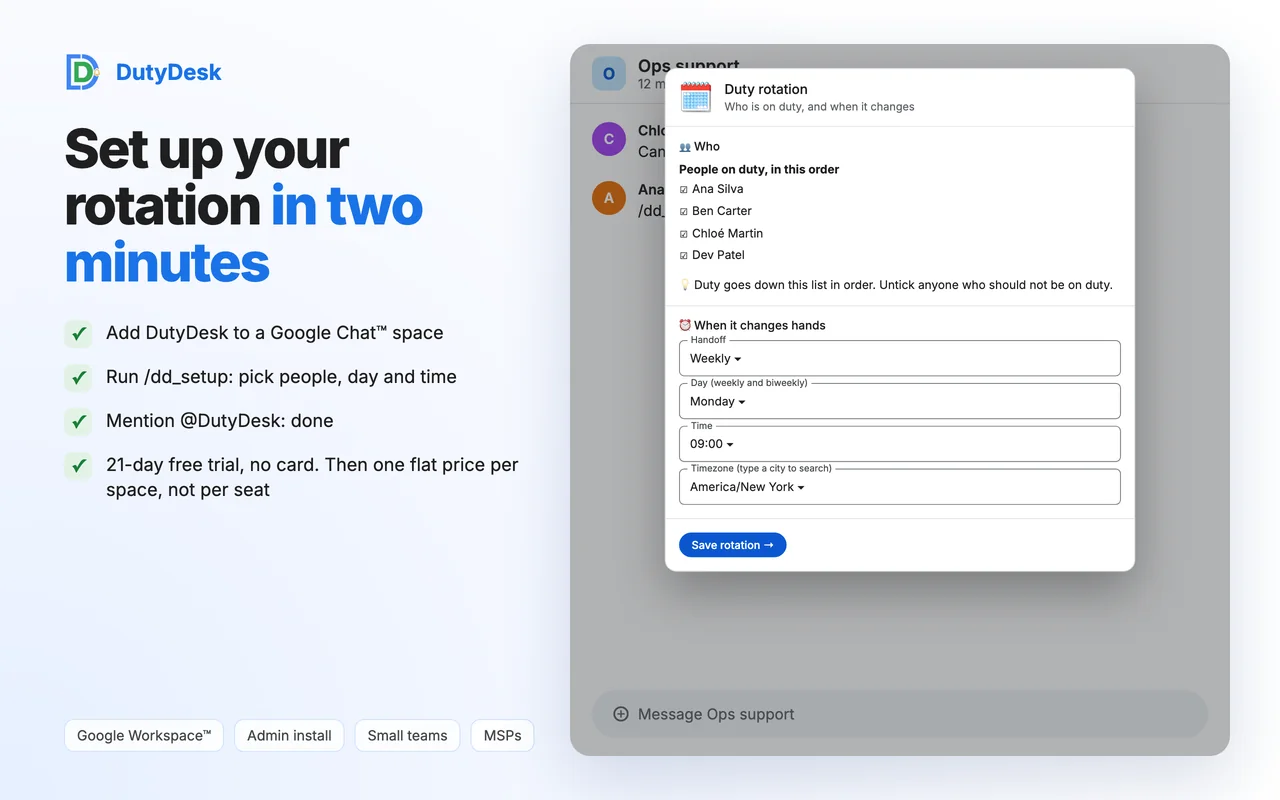
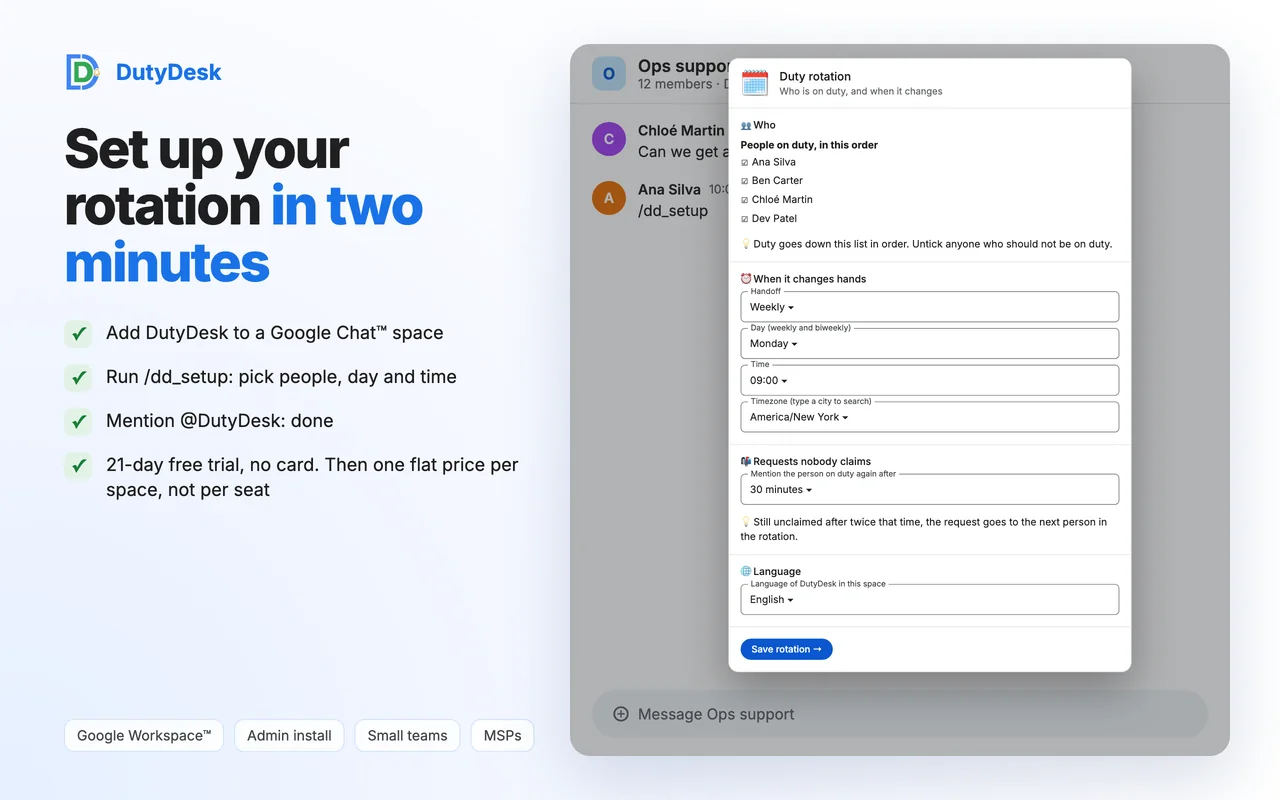
DutyDesk: follow-up, away dates, covers, calendar feed and side panel on the app page, help and privacy
Tour with the new screenshots and the side panel, six features and FAQ
updated; help gets the side panel section; privacy drops
userinfo.profile and describes what the side panel receives. futzslab/futzs-website@ccd34b8f8f4c476fc5e07b1de6ecfb9505051d19

Changed region(s): [[0.5, 0.0625, 0.9062, 0.875], [0.875, 0.125, 0.9062, 0.1562]]

diff --git a/apps/dutydesk/index.html b/apps/dutydesk/index.html
@@ -4,7 +4,7 @@
 <meta charset="utf-8">
 <meta name="viewport" content="width=device-width, initial-scale=1">
 <title>DutyDesk — on-call rotation and request routing for Google Chat</title>
-<meta name="description" content="Mention @DutyDesk in Google Chat and the request reaches whoever is on duty. On-call rotations, shift handoffs, claim and resolve buttons, in 7 languages. 21-day free trial, from $12 per space.">
+<meta name="description" content="Mention @DutyDesk in Google Chat and the request reaches whoever is on duty. On-call rotations, shift handoffs, follow-up of unclaimed requests, away dates, a Google Calendar feed and a side panel in Gmail and Docs, in 7 languages. 21-day free trial, from $12 per space.">
 <link rel="canonical" href="https://futzs.com/apps/dutydesk/">
 <meta name="robots" content="index,follow,max-image-preview:large,max-snippet:-1,max-video-preview:-1">
 <meta name="author" content="Futzs">
@@ -14,14 +14,14 @@
 <meta property="og:site_name" content="Futzs">
 <meta property="og:locale" content="en_US">
 <meta property="og:title" content="DutyDesk — on-call rotation and request routing for Google Chat">
-<meta property="og:description" content="Mention @DutyDesk in Google Chat and the request reaches whoever is on duty. On-call rotations, shift handoffs, claim and resolve buttons, in 7 languages. 21-day free trial, from $12 per space.">
+<meta property="og:description" content="Mention @DutyDesk in Google Chat and the request reaches whoever is on duty. On-call rotations, shift handoffs, follow-up of unclaimed requests, away dates, a Google Calendar feed and a side panel in Gmail and Docs, in 7 languages. 21-day free trial, from $12 per space.">
 <meta property="og:url" content="https://futzs.com/apps/dutydesk/">
 <meta property="og:image" content="https://futzs.com/images/dutydesk-social-1200x630.png">
 <meta property="og:image:alt" content="DutyDesk">
 
 <meta name="twitter:card" content="summary_large_image">
 <meta name="twitter:title" content="DutyDesk — on-call rotation and request routing for Google Chat">
-<meta name="twitter:description" content="Mention @DutyDesk in Google Chat and the request reaches whoever is on duty. On-call rotations, shift handoffs, claim and resolve buttons, in 7 languages. 21-day free trial, from $12 per space.">
+<meta name="twitter:description" content="Mention @DutyDesk in Google Chat and the request reaches whoever is on duty. On-call rotations, shift handoffs, follow-up of unclaimed requests, away dates, a Google Calendar feed and a side panel in Gmail and Docs, in 7 languages. 21-day free trial, from $12 per space.">
 <meta name="twitter:image" content="https://futzs.com/images/dutydesk-social-1200x630.png">
 
 <link rel="icon" href="/images/futzs_favicon.png">
@@ -31,7 +31,7 @@
 <link rel="preconnect" href="https://fonts.gstatic.com" crossorigin>
 <link href="https://fonts.googleapis.com/css2?family=Familjen+Grotesk:wght@400;500;600;700&family=Lora:ital,wght@0,400;0,500;1,400&display=swap" rel="stylesheet">
 <link rel="stylesheet" href="/css/main.css">
-<script type="application/ld+json">{"@context":"https://schema.org","@graph":[{"@type":"BreadcrumbList","itemListElement":[{"@type":"ListItem","position":1,"name":"Home","item":"https://futzs.com/"},{"@type":"ListItem","position":2,"name":"Apps","item":"https://futzs.com/apps/"},{"@type":"ListItem","position":3,"name":"DutyDesk","item":"https://futzs.com/apps/dutydesk/"}]},{"@type":"SoftwareApplication","name":"DutyDesk","url":"https://futzs.com/apps/dutydesk/","description":"Mention @DutyDesk in Google Chat and the request reaches whoever is on duty. On-call rotations, shift handoffs, claim and resolve buttons, in 7 languages. 21-day free trial, from $12 per space.","applicationCategory":"BusinessApplication","applicationSuite":"Google Workspace","operatingSystem":"Web browser, Google Workspace","publisher":{"@id":"https://futzs.com/#organization"},"offers":{"@type":"Offer","price":"0","priceCurrency":"USD"},"screenshot":"https://futzs.com/images/dutydesk/dutydesk-hero.gif","installUrl":"/contact/","softwareHelp":"https://futzs.com/help/dutydesk/"},{"@type":"FAQPage","mainEntity":[{"@type":"Question","name":"Does DutyDesk read our messages?","acceptedAnswer":{"@type":"Answer","text":"No. A Chat app only receives the messages that mention it, the commands sent to it and the buttons pressed on its cards. It acts as an app with the chat.bot permission and never asks for access to your Gmail, Drive, Calendar or other Google data."}},{"@type":"Question","name":"Who sees the request cards?","acceptedAnswer":{"@type":"Answer","text":"Request and handoff cards are posted in the space, so its members see them like any message. Your /dd_duty card, plans and confirmations are private."}},{"@type":"Question","name":"Is there a free trial?","acceptedAnswer":{"@type":"Answer","text":"Yes. Every space gets 21 days with the Team limits, no card needed. DutyDesk reminds the space before the trial ends."}},{"@type":"Question","name":"What happens when the trial ends without a plan?","acceptedAnswer":{"@type":"Answer","text":"Nothing is deleted. The space becomes read only, /dd_duty still answers, but new requests are not routed and handoffs are not posted until the space subscribes."}},{"@type":"Question","name":"Is it an incident or emergency tool?","acceptedAnswer":{"@type":"Answer","text":"DutyDesk routes requests and notifies the person on duty through Google Chat. It is not a monitoring or emergency service, so keep your phone tree for real emergencies."}},{"@type":"Question","name":"Which languages does it speak?","acceptedAnswer":{"@type":"Answer","text":"English, Spanish, French, Portuguese (Brazil), German, Italian and Japanese. A new space starts in the language of whoever adds DutyDesk; /dd_setup changes it."}},{"@type":"Question","name":"How do I cancel?","acceptedAnswer":{"@type":"Answer","text":"/dd_help › See plans › Manage subscription, or the link in Polar's receipt. The plan stays active until the end of the period already paid, and payments are refunded in full within 14 days."}}]}]}</script>
+<script type="application/ld+json">{"@context":"https://schema.org","@graph":[{"@type":"BreadcrumbList","itemListElement":[{"@type":"ListItem","position":1,"name":"Home","item":"https://futzs.com/"},{"@type":"ListItem","position":2,"name":"Apps","item":"https://futzs.com/apps/"},{"@type":"ListItem","position":3,"name":"DutyDesk","item":"https://futzs.com/apps/dutydesk/"}]},{"@type":"SoftwareApplication","name":"DutyDesk","url":"https://futzs.com/apps/dutydesk/","description":"Mention @DutyDesk in Google Chat and the request reaches whoever is on duty. On-call rotations, shift handoffs, follow-up of unclaimed requests, away dates, a Google Calendar feed and a side panel in Gmail and Docs, in 7 languages. 21-day free trial, from $12 per space.","applicationCategory":"BusinessApplication","applicationSuite":"Google Workspace","operatingSystem":"Web browser, Google Workspace","publisher":{"@id":"https://futzs.com/#organization"},"offers":{"@type":"Offer","price":"0","priceCurrency":"USD"},"screenshot":"https://futzs.com/images/dutydesk/dutydesk-hero.gif","installUrl":"/contact/","softwareHelp":"https://futzs.com/help/dutydesk/"},{"@type":"FAQPage","mainEntity":[{"@type":"Question","name":"Does DutyDesk read our messages?","acceptedAnswer":{"@type":"Answer","text":"No. A Chat app only receives the messages that mention it, the commands sent to it and the buttons pressed on its cards. It acts as an app with the chat.bot permission and never asks for access to your Gmail, Drive, Calendar or other Google data. The side panel only learns who opened it."}},{"@type":"Question","name":"Who sees the request cards?","acceptedAnswer":{"@type":"Answer","text":"Request and handoff cards are posted in the space, so its members see them like any message. Your /dd_duty card, plans and confirmations are private."}},{"@type":"Question","name":"What if nobody claims a request?","acceptedAnswer":{"@type":"Answer","text":"After 30 minutes DutyDesk mentions the person on duty again in the thread; after an hour the request goes to the next person in the rotation, once. Change the delay or turn it off in /dd_setup."}},{"@type":"Question","name":"What about holidays?","acceptedAnswer":{"@type":"Answer","text":"Enter the first and last day away from /dd_duty, for yourself or a teammate. DutyDesk passes that person over at every handoff that touches those days. For a few hours or days, Cover a shift sends requests to someone else without changing the rotation."}},{"@type":"Question","name":"Can I see the rotation in Google Calendar?","acceptedAnswer":{"@type":"Answer","text":"Yes: /dd_duty › Add to calendar gives a private link to subscribe to in Google Calendar. Anyone with the link sees the names in the rotation; New link turns the old one off."}},{"@type":"Question","name":"Is there a free trial?","acceptedAnswer":{"@type":"Answer","text":"Yes. Every space gets 21 days with the Team limits, no card needed. DutyDesk reminds the space before the trial ends."}},{"@type":"Question","name":"What happens when the trial ends without a plan?","acceptedAnswer":{"@type":"Answer","text":"Nothing is deleted. The space becomes read only, /dd_duty still answers, but new requests are not routed and handoffs are not posted until the space subscribes."}},{"@type":"Question","name":"Is it an incident or emergency tool?","acceptedAnswer":{"@type":"Answer","text":"DutyDesk routes requests and notifies the person on duty through Google Chat. It is not a monitoring or emergency service, so keep your phone tree for real emergencies."}},{"@type":"Question","name":"Which languages does it speak?","acceptedAnswer":{"@type":"Answer","text":"English, Spanish, French, Portuguese (Brazil), German, Italian and Japanese. A new space starts in the language of whoever adds DutyDesk; /dd_setup changes it."}},{"@type":"Question","name":"How do I cancel?","acceptedAnswer":{"@type":"Answer","text":"/dd_help › See plans › Manage subscription, or the link in Polar's receipt. The plan stays active until the end of the period already paid, and payments are refunded in full within 14 days."}}]}]}</script>
 <script defer src="https://umami.futzs.com/script.js" data-website-id="d2bf791f-8216-49e3-bc20-667f38af4393" data-domains="futzs.com"></script>
 </head>
 <body>
@@ -93,11 +93,11 @@
 
 <section id="features" class="cols-3 anchor grid-six">
   <div><h3>One handle for the whole rotation</h3><p>@DutyDesk stands in for whoever is on duty this week. Nobody checks a spreadsheet, nobody pings the person who was on call last week.</p></div>
-  <div><h3>Every request tracked</h3><p>Each mention becomes a card in its own thread, with Claim, Reassign and Resolve. The space sees who took it and when it was done.</p></div>
-  <div><h3>Handoffs that run themselves</h3><p>Daily, weekly or every two weeks, at the time and in the timezone of your team. DutyDesk announces the new person on duty and carries open requests over.</p></div>
-  <div><h3>Away? Skip or swap</h3><p>One click passes you over once, or trades the next shift with a teammate. The order comes back on its own afterwards.</p></div>
-  <div><h3>Speaks your team&#39;s language</h3><p>English, Español, Français, Português, Deutsch, Italiano and 日本語. Each space picks its own.</p></div>
-  <div><h3>Priced per space, not per seat</h3><p>One flat price per Chat space: $12 a month for up to 5 people, $29 for up to 20. 21 days free first, no card.</p></div>
+  <div><h3>No request left unanswered</h3><p>Each mention becomes a card with Claim, Reassign and Resolve. Nobody claims it? DutyDesk mentions the person on duty again, then hands it to the next person.</p></div>
+  <div><h3>Handoffs that run themselves</h3><p>Daily, weekly or every two weeks, in your team&#39;s timezone. A heads-up the day before, then the handoff with the open requests carried over.</p></div>
+  <div><h3>Holidays and covers, handled</h3><p>Add your days off and you are passed over. Someone covers a few hours or days? Requests go to them, the rotation stays as it is.</p></div>
+  <div><h3>In Gmail, Calendar and Docs too</h3><p>A side panel shows who is on duty and lets you send a request without leaving your inbox. The rotation also comes as a Google Calendar feed.</p></div>
+  <div><h3>Your language, one price per space</h3><p>English, Español, Français, Português, Deutsch, Italiano and 日本語. $12 a month for up to 5 people, $29 for up to 20, after 21 days free.</p></div>
 </section>
 
 <section id="tour" class="anchor showcase">
@@ -118,27 +118,51 @@
 <ul class="showcase-points"><li>Claim with one click</li><li>Reassign to anyone in the rotation</li><li>/dd_requests lists what is still open</li></ul>    </div>
   </div>
   <div class="showcase-row">
+    <img class="showcase-shot" src="/images/dutydesk/6-followup.webp" alt="An unclaimed request mentioned again after 30 minutes, then handed to the next person in the rotation" width="1280" height="800" loading="lazy">
+    <div class="showcase-copy">
+      <span class="kicker">Follow-up</span>
+      <h2>No request left unanswered</h2>
+      <p class="muted">Nobody claimed it? After 30 minutes DutyDesk mentions the person on duty again in the thread. After an hour the request goes to the next person in the rotation, once.</p>
+<ul class="showcase-points"><li>15 min, 30 min, 1 hour or off, per space</li><li>Handed on once, never around the whole team</li><li>Reassigning restarts the clock</li></ul>    </div>
+  </div>
+  <div class="showcase-row flip">
     <img class="showcase-shot" src="/images/dutydesk/3-handoff.webp" alt="A DutyDesk handoff card naming the new person on duty and the open requests carried over" width="1280" height="800" loading="lazy">
     <div class="showcase-copy">
       <span class="kicker">Shift handoff</span>
       <h2>On-call rotations that run themselves</h2>
-      <p class="muted">At each handoff DutyDesk posts who is on duty, who is next, and how many requests are still open. The next person is mentioned, so the duty roster lives where the team talks.</p>
-<ul class="showcase-points"><li>Daily, weekly or every two weeks</li><li>Your team&#39;s timezone</li><li>Open requests carried over</li></ul>    </div>
-  </div>
-  <div class="showcase-row flip">
-    <img class="showcase-shot" src="/images/dutydesk/4-duty.webp" alt="The private /dd_duty card with the next shifts and the Skip and Swap buttons" width="1280" height="800" loading="lazy">
-    <div class="showcase-copy">
-      <span class="kicker">Out of office</span>
-      <h2>Away next week? Skip or swap in one click</h2>
-      <p class="muted">/dd_duty shows you, privately, who is on duty and the next shifts. Skip passes you over once; Swap trades the next shift with a teammate and tells the space.</p>
-<ul class="showcase-points"><li>Only you see your duty card</li><li>The space is told about every swap</li><li>The order goes back to normal by itself</li></ul>    </div>
+      <p class="muted">At each handoff DutyDesk posts who is on duty, who is next, and how many requests are still open. The day before, a heads-up mentions the next person, so there is still time to skip or swap.</p>
+<ul class="showcase-points"><li>Daily, weekly or every two weeks</li><li>Heads-up the day before</li><li>Open requests carried over</li></ul>    </div>
   </div>
   <div class="showcase-row">
-    <img class="showcase-shot" src="/images/dutydesk/5-setup.webp" alt="The DutyDesk setup dialog in Google Chat with people, handoff day, time, timezone and language" width="1280" height="800" loading="lazy">
+    <img class="showcase-shot" src="/images/dutydesk/7-away.webp" alt="A cover announced in the space and the duty card with a teammate away next week" width="1280" height="800" loading="lazy">
+    <div class="showcase-copy">
+      <span class="kicker">Out of office</span>
+      <h2>Holidays and covers, handled</h2>
+      <p class="muted">Enter your days off and DutyDesk passes you over, then puts you back in the order. Someone covers a few hours or days? Requests in that window go to them, and the whole space is told.</p>
+<ul class="showcase-points"><li>Away dates for yourself or a teammate</li><li>Cover a shift without touching the rotation</li><li>Skip or swap one shift in one click</li></ul>    </div>
+  </div>
+  <div class="showcase-row flip">
+    <img class="showcase-shot" src="/images/dutydesk/8-calendar.webp" alt="A heads-up post before the handoff and the private calendar link card" width="1280" height="800" loading="lazy">
+    <div class="showcase-copy">
+      <span class="kicker">Calendar</span>
+      <h2>Know your shift before it starts</h2>
+      <p class="muted">Add the rotation to Google Calendar from a private link: one event per shift for the next 90 days, people away included. The heads-up the day before has Skip and Swap on it.</p>
+<ul class="showcase-points"><li>One event per shift</li><li>Updated as the rotation changes</li><li>New link turns the old one off</li></ul>    </div>
+  </div>
+  <div class="showcase-row">
+    <img class="showcase-shot narrow" src="/images/dutydesk/panel.webp" alt="The DutyDesk side panel with who is on duty, open requests, rotation and New request" loading="lazy">
+    <div class="showcase-copy">
+      <span class="kicker">Side panel</span>
+      <h2>In Gmail, Calendar, Drive and Docs</h2>
+      <p class="muted">Open DutyDesk in the side panel of Gmail, Google Calendar, Drive, Docs, Sheets or Slides: who is on duty in each of your spaces, the open requests, the rotation, and a New request button.</p>
+<ul class="showcase-points"><li>Send a request without leaving your inbox</li><li>Edit the rotation from any Google app</li><li>Only knows who you are; no access to your emails or files</li></ul>    </div>
+  </div>
+  <div class="showcase-row flip">
+    <img class="showcase-shot" src="/images/dutydesk/5-setup.webp" alt="The DutyDesk setup dialog in Google Chat with people, schedule, follow-up and language" width="1280" height="800" loading="lazy">
     <div class="showcase-copy">
       <span class="kicker">Setup</span>
       <h2>Set up your rotation in two minutes</h2>
-      <p class="muted">Run /dd_setup, pick the people in the order they take the duty, choose when it changes hands and the language of the space. That&#39;s it: no admin console, no extra accounts.</p>
+      <p class="muted">Run /dd_setup, pick the people in the order they take the duty, choose when it changes hands, how long a request may wait, and the language of the space. No admin console, no extra accounts.</p>
 <ul class="showcase-points"><li>People come from the space</li><li>7 languages</li><li>21-day free trial with no card</li></ul>    </div>
   </div>
 </section>
@@ -178,7 +202,7 @@
     <div class="step">
       <div class="step-n">02</div>
       <h3>Run /dd_setup</h3>
-      <p>Pick the people, the cadence, the handoff time and the language.</p>
+      <p>Pick the people, the cadence, the handoff time, the follow-up delay and the language.</p>
     </div>
     <div class="step">
       <div class="step-n">03</div>
@@ -211,11 +235,23 @@
 <div class="faq">
   <details class="faq-item">
     <summary>Does DutyDesk read our messages?<span class="faq-sign" aria-hidden="true"></span></summary>
-    <p>No. A Chat app only receives the messages that mention it, the commands sent to it and the buttons pressed on its cards. It acts as an app with the chat.bot permission and never asks for access to your Gmail, Drive, Calendar or other Google data.</p>
+    <p>No. A Chat app only receives the messages that mention it, the commands sent to it and the buttons pressed on its cards. It acts as an app with the chat.bot permission and never asks for access to your Gmail, Drive, Calendar or other Google data. The side panel only learns who opened it.</p>
   </details>
   <details class="faq-item">
     <summary>Who sees the request cards?<span class="faq-sign" aria-hidden="true"></span></summary>
     <p>Request and handoff cards are posted in the space, so its members see them like any message. Your /dd_duty card, plans and confirmations are private.</p>
+  </details>
+  <details class="faq-item">
+    <summary>What if nobody claims a request?<span class="faq-sign" aria-hidden="true"></span></summary>
+    <p>After 30 minutes DutyDesk mentions the person on duty again in the thread; after an hour the request goes to the next person in the rotation, once. Change the delay or turn it off in /dd_setup.</p>
+  </details>
+  <details class="faq-item">
+    <summary>What about holidays?<span class="faq-sign" aria-hidden="true"></span></summary>
+    <p>Enter the first and last day away from /dd_duty, for yourself or a teammate. DutyDesk passes that person over at every handoff that touches those days. For a few hours or days, Cover a shift sends requests to someone else without changing the rotation.</p>
+  </details>
+  <details class="faq-item">
+    <summary>Can I see the rotation in Google Calendar?<span class="faq-sign" aria-hidden="true"></span></summary>
+    <p>Yes: /dd_duty › Add to calendar gives a private link to subscribe to in Google Calendar. Anyone with the link sees the names in the rotation; New link turns the old one off.</p>
   </details>
   <details class="faq-item">
     <summary>Is there a free trial?<span class="faq-sign" aria-hidden="true"></span></summary>

diff --git a/help/dutydesk/index.html b/help/dutydesk/index.html
@@ -82,7 +82,7 @@
   <nav class="docs-nav" data-docs-nav data-spy>
     <div class="docs-group">
       <div class="docs-group-title">DutyDesk</div>
-<a href="#getting-started">Getting started</a><a href="#add">Add DutyDesk to a space</a><a href="#setup">Set up the rotation</a><a href="#requests">Send a request</a><a href="#skip-swap">Skip or swap a shift</a><a href="#away">Away dates and covers</a><a href="#calendar">Rotation in your calendar</a><a href="#commands">Commands</a><a href="#plans">Plans and trial</a><a href="#remove">Remove DutyDesk</a><a href="#troubleshooting">Troubleshooting</a>    </div>
+<a href="#getting-started">Getting started</a><a href="#add">Add DutyDesk to a space</a><a href="#setup">Set up the rotation</a><a href="#requests">Send a request</a><a href="#skip-swap">Skip or swap a shift</a><a href="#away">Away dates and covers</a><a href="#calendar">Rotation in your calendar</a><a href="#side-panel">Side panel in Gmail and Docs</a><a href="#commands">Commands</a><a href="#plans">Plans and trial</a><a href="#remove">Remove DutyDesk</a><a href="#troubleshooting">Troubleshooting</a>    </div>
     <div class="docs-group">
       <div class="docs-group-title">Reference</div>
 <a href="/legal/dutydesk/#privacy">Privacy policy</a><a href="/legal/dutydesk/#terms">Terms &amp; conditions</a>    </div>
@@ -177,6 +177,26 @@ duty: name&rdquo;, for the next 90 days, people away included. Google refreshes 
 every few hours.</p>
 <p>Anyone with the link sees the names in the rotation. <strong>New link</strong> turns the
 old link off.</p>
+<h2 id="side-panel">Side panel in Gmail, Calendar, Drive and Docs</h2>
+<p>DutyDesk also has a side panel in Gmail, Google Calendar, Drive, Docs,
+Sheets and Slides. Click the DutyDesk icon in the bar on the right of the
+screen. The first time, Google asks you to let DutyDesk know who you are
+(your account and language); it gets no access to your emails, events or
+files.</p>
+<p><img alt="The DutyDesk side panel: who is on duty, open requests, rotation and New request" class="shot" src="/images/dutydesk/panel.webp" width="340" /></p>
+<p>For each Chat space with DutyDesk you are a member of:</p>
+<ul>
+<li><strong>Who is on duty</strong> now, until when, and who is next.</li>
+<li><strong>Open requests</strong>: the list, each one opening its thread in Chat.</li>
+<li><strong>Rotation</strong>: the same setup as <code>/dd_setup</code> (people, schedule,
+  follow-up, language). Saving posts the handoff in the space.</li>
+<li><strong>New request</strong>: write it and send. DutyDesk posts it in the space and
+  notifies the person on duty, as an @DutyDesk mention would.</li>
+<li><strong>Open in Chat</strong>.</li>
+</ul>
+<p>The side panel uses the language of your spaces. It comes with the next
+update of DutyDesk on the Google Workspace Marketplace: if you don&rsquo;t see the
+icon yet, it is on its way.</p>
 <h2 id="commands">Commands</h2>
 <table>
 <thead>
@@ -268,7 +288,7 @@ person reads every message.</p>
   <aside class="docs-toc" data-docs-toc data-spy>
     <div class="docs-group-title">On this page</div>
     <a href="#getting-started">Getting started</a>
-<a class="sub" href="#add">Add DutyDesk to a space</a><a class="sub" href="#setup">Set up the rotation</a><a class="sub" href="#requests">Send a request</a><a class="sub" href="#skip-swap">Skip or swap a shift</a><a class="sub" href="#away">Away dates and covers</a><a class="sub" href="#calendar">Rotation in your calendar</a><a class="sub" href="#commands">Commands</a><a class="sub" href="#plans">Plans and trial</a><a class="sub" href="#remove">Remove DutyDesk</a><a class="sub" href="#troubleshooting">Troubleshooting</a>  </aside>
+<a class="sub" href="#add">Add DutyDesk to a space</a><a class="sub" href="#setup">Set up the rotation</a><a class="sub" href="#requests">Send a request</a><a class="sub" href="#skip-swap">Skip or swap a shift</a><a class="sub" href="#away">Away dates and covers</a><a class="sub" href="#calendar">Rotation in your calendar</a><a class="sub" href="#side-panel">Side panel in Gmail, Calendar, Drive and Docs</a><a class="sub" href="#commands">Commands</a><a class="sub" href="#plans">Plans and trial</a><a class="sub" href="#remove">Remove DutyDesk</a><a class="sub" href="#troubleshooting">Troubleshooting</a>  </aside>
 </div>
 </main>
 <footer class="site-footer">

diff --git a/legal/dutydesk/index.html b/legal/dutydesk/index.html
@@ -77,7 +77,7 @@
 <blockquote>
 <ul>
 <li>DutyDesk is a Google Chat app. It acts as itself (an app with the <code>chat.bot</code> permission), never as you: it does not ask for access to your Gmail, Drive, Calendar or any other Google data.</li>
-<li>It only sees the messages that mention @DutyDesk, the commands you send it, and the buttons you press on its cards. It does not read the other messages of the space.</li>
+<li>It only sees the messages that mention @DutyDesk, the commands you send it, the buttons you press on its cards, and what you do in its side panel. It does not read the other messages of the space, nor your emails, events or files.</li>
 <li>What we store, per Chat space: the space name, the rotation (people, order, schedule, timezone), who was on duty when, and for each request the first 200 characters of its text, who asked, who it was assigned to and its status.</li>
 <li>We do not sell your data or share it, except with Polar (polar.sh), which processes payments and receives the buyer&rsquo;s e-mail address for that purpose, and PostHog, which receives product usage events about a space under a random identifier (never message text, names or e-mail addresses).</li>
 <li>The app’s use and transfer of information received from Google APIs adheres to <a href="https://developers.google.com/terms/api-services-user-data-policy#additional_requirements_for_specific_api_scopes">Google API Services User Data Policy</a>, including the Limited Use requirements.</li>
@@ -128,6 +128,16 @@
 <td>Your e-mail address, from Google Chat</td>
 <td>Nothing: it is passed to Polar&rsquo;s checkout page so you don&rsquo;t have to type it</td>
 </tr>
+<tr>
+<td>You open the DutyDesk side panel (Gmail, Calendar, Drive, Docs, Sheets, Slides)</td>
+<td>Your Google account ID, language and timezone, from Google; DutyDesk then asks Google Chat, as itself, whether you are a member of each space it shows</td>
+<td>Nothing new: the spaces are checked again each time</td>
+</tr>
+<tr>
+<td>A request or a rotation change sent from the side panel</td>
+<td>The text or the settings, and you as the person who sent them</td>
+<td>The same as a mention or <code>/dd_setup</code> (rows above)</td>
+</tr>
 </tbody>
 </table>
 <p>People are identified by their Google Chat user ID (<code>users/…</code>), never by e-mail. DutyDesk does not store e-mail addresses.</p>
@@ -145,8 +155,8 @@
 <td>Post and update its messages and cards in the spaces it is added to, and list the members of those spaces for the setup dialog</td>
 </tr>
 <tr>
-<td><code>openid</code>, <code>userinfo.email</code>, <code>userinfo.profile</code></td>
-<td>Only for the DutyDesk side panel in other Google Workspace apps: to know which Google Chat user opened it, so it shows the spaces that person belongs to. Your user ID is matched to your Chat user ID; the e-mail and profile are not stored</td>
+<td><code>openid</code>, <code>userinfo.email</code></td>
+<td>Only for the DutyDesk side panel in Gmail, Google Calendar, Drive, Docs, Sheets and Slides: to know which Google Chat user opened it, so it shows the spaces that person belongs to. Your Google account ID is your Chat user ID; the e-mail is not stored</td>
 </tr>
 <tr>
 <td><code>script.locale</code></td>

diff --git a/css/main.css b/css/main.css
@@ -640,6 +640,7 @@ img.shot { display: block; max-width: 100%; height: auto; margin: 18px 0 24px; b
 .showcase-row { display: grid; grid-template-columns: minmax(0, 1.35fr) minmax(0, 1fr); gap: 56px; align-items: center; }
 .showcase-row.flip > .showcase-shot { order: 2; }
 .showcase-shot { width: 100%; height: auto; border: 1px solid var(--divider); border-radius: 14px; box-shadow: 0 18px 48px rgba(32, 31, 29, 0.12); }
+.showcase-shot.narrow { max-width: 340px; justify-self: center; }
 .showcase-copy { display: flex; flex-direction: column; align-items: flex-start; gap: 16px; }
 .showcase-copy h2 { font-size: clamp(26px, 3vw, 34px); }
 .showcase-copy .muted { font-size: 16.5px; line-height: 1.75; }
